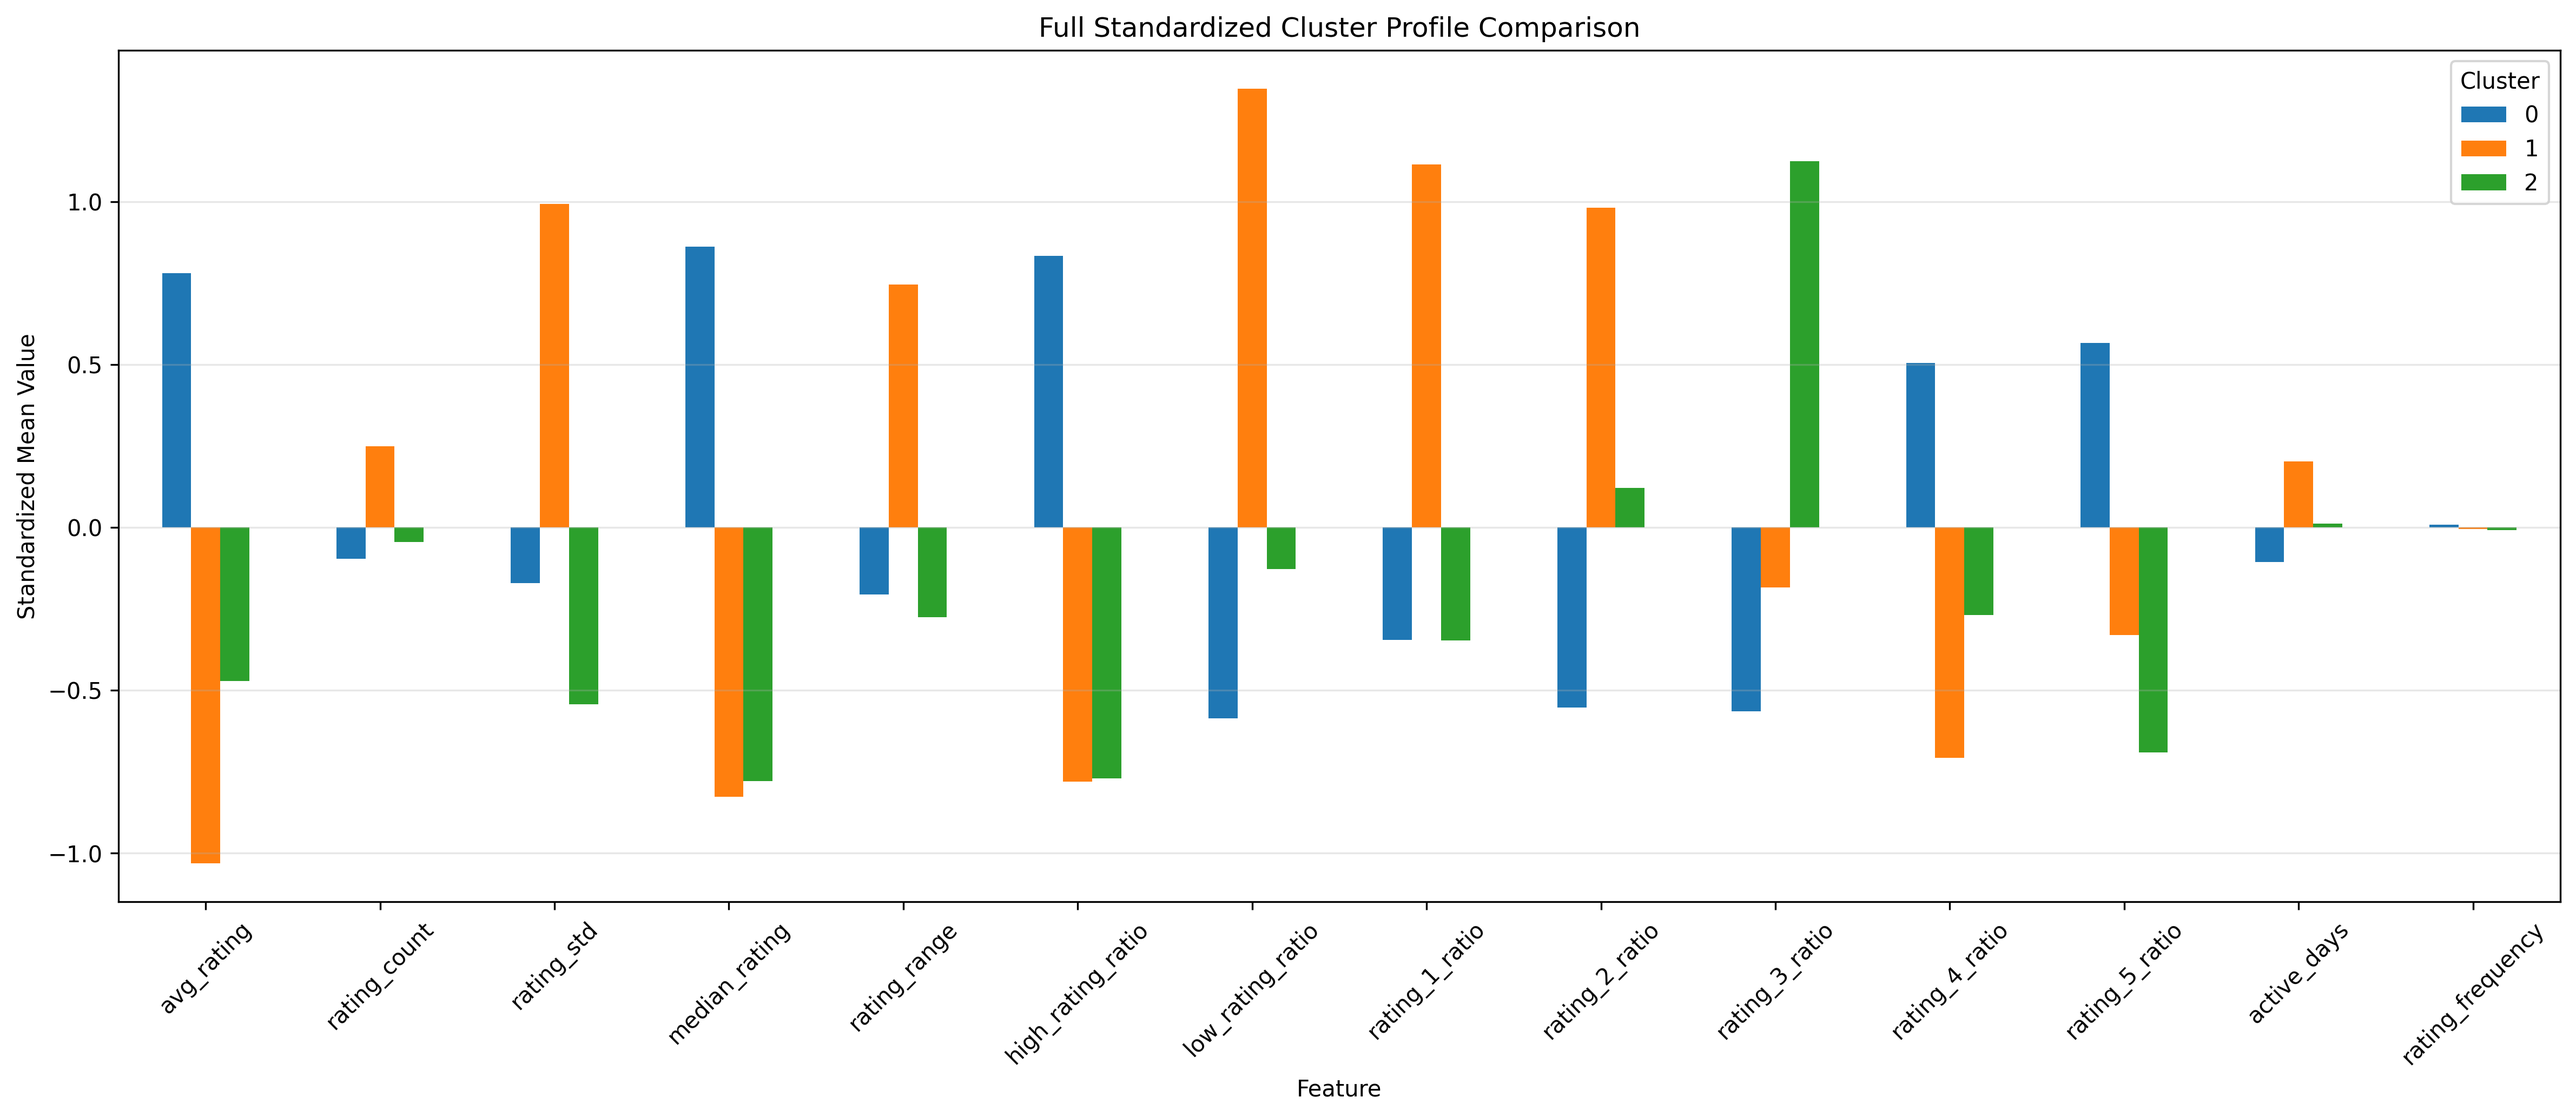
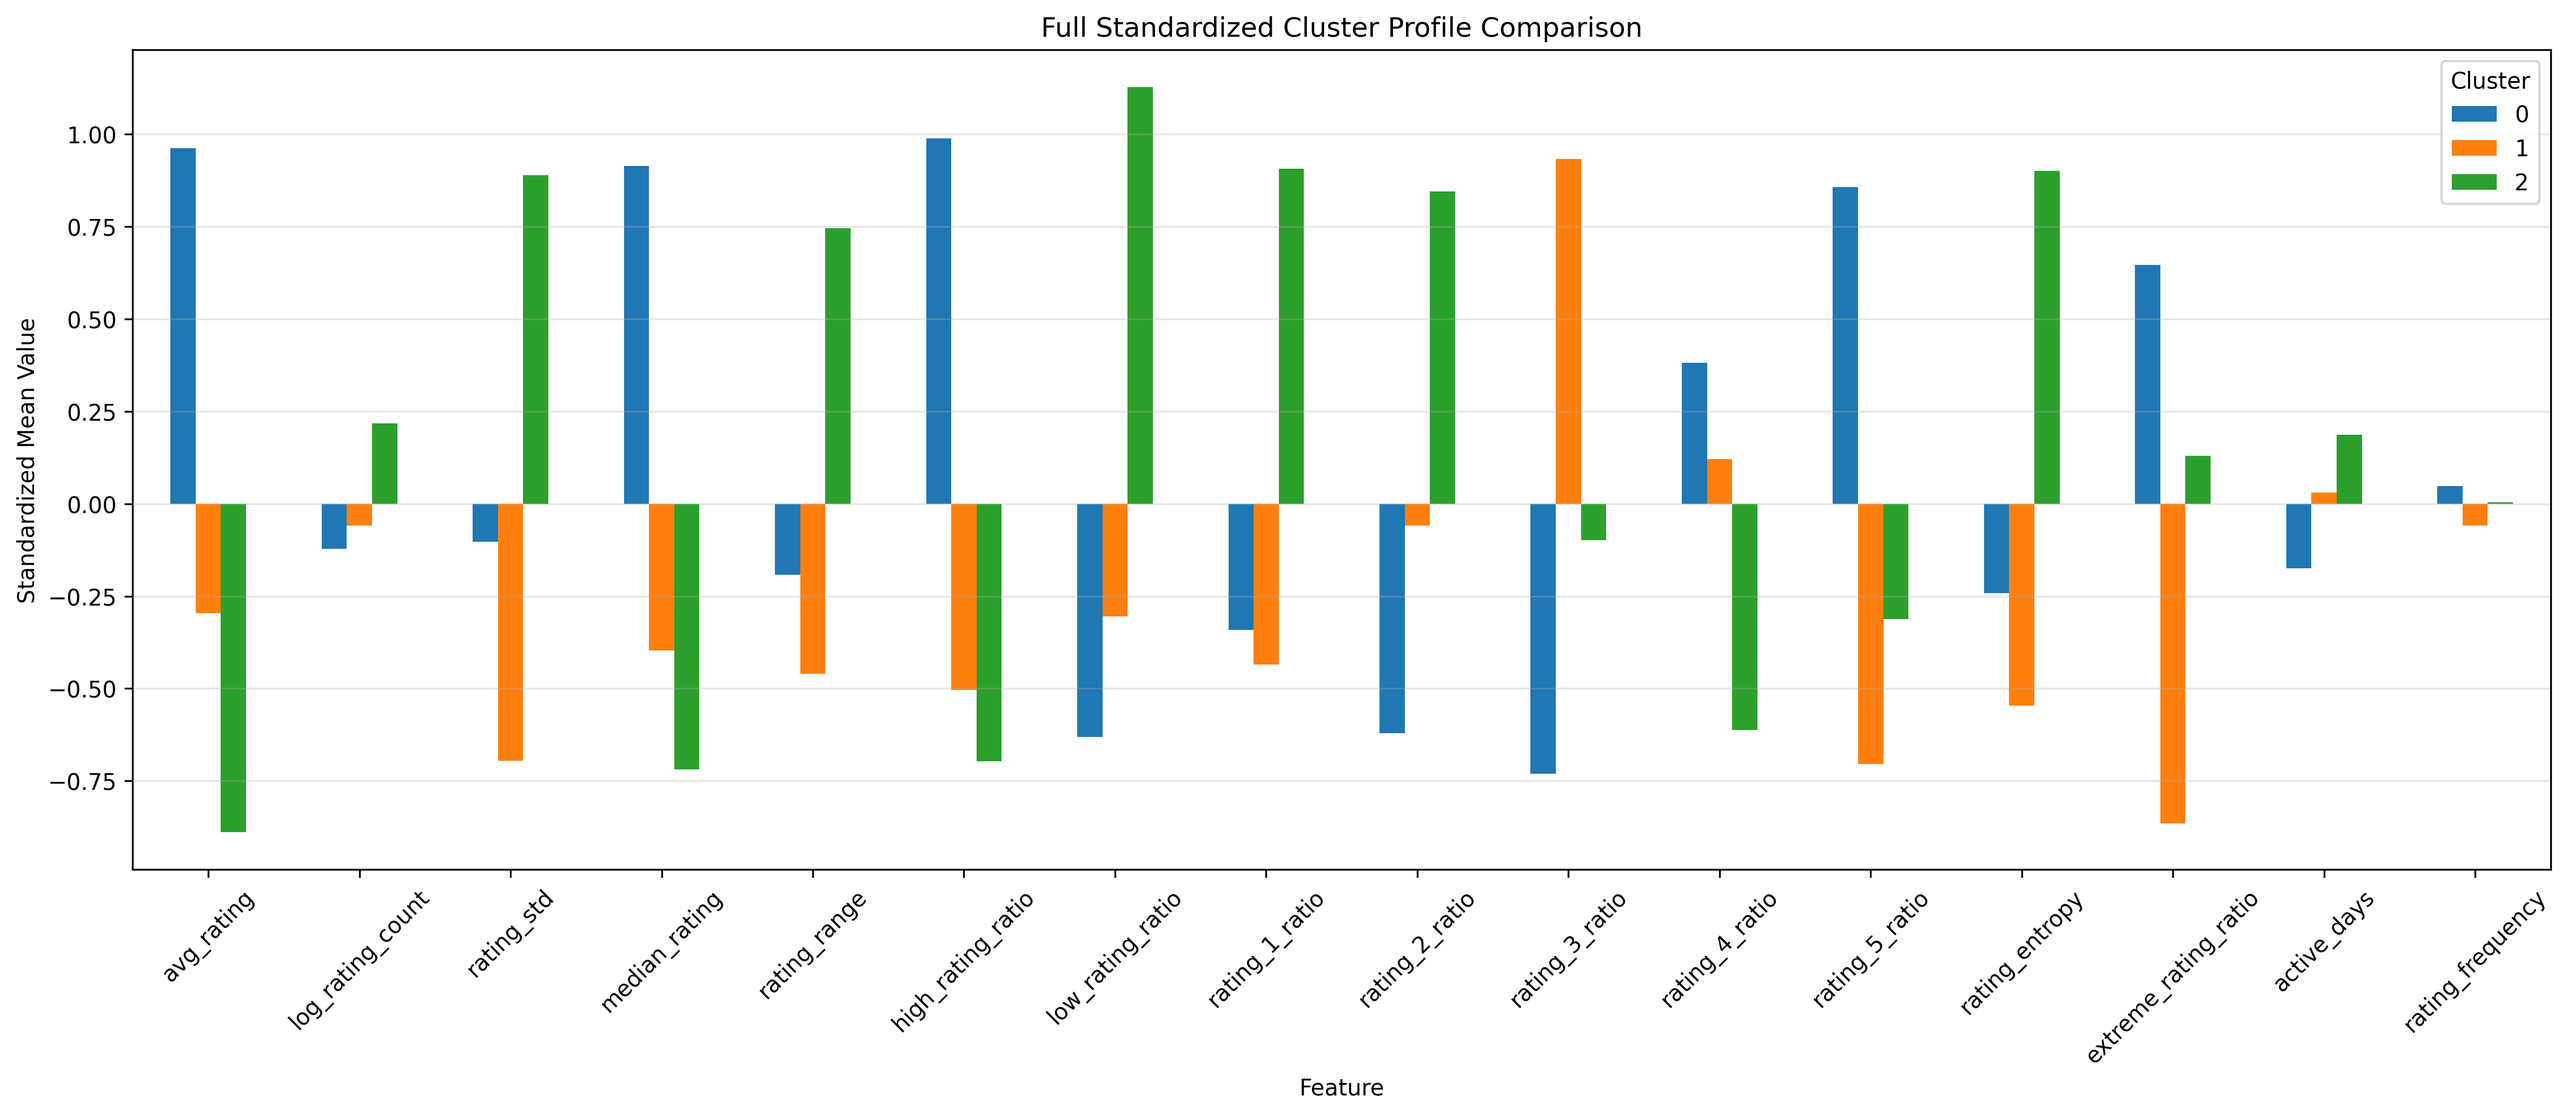
Improve Netflix clustering pipeline for V3

diff --git a/FinalProject/src/06_add_cluster_names.py b/FinalProject/src/06_add_cluster_names.py
@@ -1,0 +1,66 @@
+from pathlib import Path
+import pandas as pd
+
+
+PROJECT_ROOT = Path(__file__).resolve().parents[1]
+PROCESSED_DATA_DIR = PROJECT_ROOT / "data" / "processed"
+
+
+CLUSTER_NAME_MAP = {
+    0: "Generous Extreme Raters",
+    1: "Conservative Moderate Raters",
+    2: "Diverse Critical Raters",
+}
+
+
+CLUSTER_DESCRIPTION_MAP = {
+    0: "Users who tend to give high ratings and frequently use extreme positive ratings.",
+    1: "Users who avoid extreme scores and show more conservative, moderate rating behavior.",
+    2: "Users who rate more critically and show greater variation in rating behavior.",
+}
+
+
+def add_cluster_names_to_users():
+    input_path = PROCESSED_DATA_DIR / "clustered_users.csv"
+    output_path = PROCESSED_DATA_DIR / "clustered_users_named.csv"
+
+    df = pd.read_csv(input_path)
+
+    df["cluster_name"] = df["cluster"].map(CLUSTER_NAME_MAP)
+    df["cluster_description"] = df["cluster"].map(CLUSTER_DESCRIPTION_MAP)
+
+    df.to_csv(output_path, index=False)
+
+    print(f"Saved named clustered users to: {output_path}")
+    print(df[["user_id", "cluster", "cluster_name"]].head())
+
+
+def add_cluster_names_to_summary():
+    input_path = PROCESSED_DATA_DIR / "cluster_summary.csv"
+    output_path = PROCESSED_DATA_DIR / "cluster_summary_named.csv"
+
+    summary = pd.read_csv(input_path)
+
+    summary["cluster_name"] = summary["cluster"].map(CLUSTER_NAME_MAP)
+    summary["cluster_description"] = summary["cluster"].map(CLUSTER_DESCRIPTION_MAP)
+
+    # Move names near the front
+    cols = ["cluster", "cluster_name", "cluster_description"] + [
+        col for col in summary.columns
+        if col not in ["cluster", "cluster_name", "cluster_description"]
+    ]
+
+    summary = summary[cols]
+    summary.to_csv(output_path, index=False)
+
+    print(f"\nSaved named cluster summary to: {output_path}")
+    print(summary[["cluster", "cluster_name", "user_count"]])
+
+
+def main():
+    add_cluster_names_to_users()
+    add_cluster_names_to_summary()
+
+
+if __name__ == "__main__":
+    main()

diff --git a/FinalProject/src/02_feature_engineering.py b/FinalProject/src/02_feature_engineering.py
@@ -1,5 +1,6 @@
 from pathlib import Path
 import pandas as pd
+import numpy as np
 
 
 PROJECT_ROOT = Path(__file__).resolve().parents[1]
@@ -59,6 +60,29 @@ def build_user_features(df):
     )
     features["low_rating_ratio"] = (
         features["rating_1_ratio"] + features["rating_2_ratio"]
+    )
+
+    # Log-scaled rating count to reduce heavy-user effect
+    features["log_rating_count"] = np.log1p(features["rating_count"])
+
+    # Rating entropy: measures how diverse the user's rating distribution is
+    rating_ratio_cols = [
+        "rating_1_ratio",
+        "rating_2_ratio",
+        "rating_3_ratio",
+        "rating_4_ratio",
+        "rating_5_ratio",
+    ]
+
+    eps = 1e-12
+    features["rating_entropy"] = -(
+        features[rating_ratio_cols] *
+        np.log(features[rating_ratio_cols] + eps)
+    ).sum(axis=1)
+
+    # Extreme rating behavior: ratio of 1-star and 5-star ratings
+    features["extreme_rating_ratio"] = (
+        features["rating_1_ratio"] + features["rating_5_ratio"]
     )
 
     # Users with only one rating have NaN std

diff --git a/FinalProject/src/05_cluster_profile.py b/FinalProject/src/05_cluster_profile.py
@@ -12,11 +12,13 @@ FIGURE_DIR = PROJECT_ROOT / "reports" / "figures"
 
 SUMMARY_PROFILE_FEATURES = [
     "avg_rating",
-    "rating_count",
+    "log_rating_count",
     "rating_std",
     "high_rating_ratio",
     "low_rating_ratio",
     "rating_5_ratio",
+    "rating_entropy",
+    "extreme_rating_ratio",
     "active_days",
     "rating_frequency",
 ]
@@ -24,7 +26,7 @@ SUMMARY_PROFILE_FEATURES = [
 
 ALL_PROFILE_FEATURES = [
     "avg_rating",
-    "rating_count",
+    "log_rating_count",
     "rating_std",
     "median_rating",
     "rating_range",
@@ -35,10 +37,11 @@ ALL_PROFILE_FEATURES = [
     "rating_3_ratio",
     "rating_4_ratio",
     "rating_5_ratio",
+    "rating_entropy",
+    "extreme_rating_ratio",
     "active_days",
     "rating_frequency",
 ]
-
 
 def create_cluster_profile_plot(df, features, output_path, title, figsize=(12, 6)):
     scaler = StandardScaler()

diff --git a/FinalProject/src/03_clustering.py b/FinalProject/src/03_clustering.py
@@ -10,7 +10,7 @@ PROCESSED_DATA_DIR = PROJECT_ROOT / "data" / "processed"
 
 FEATURE_COLUMNS = [
     "avg_rating",
-    "rating_count",
+    "log_rating_count",
     "rating_std",
     "median_rating",
     "rating_range",
@@ -21,6 +21,8 @@ FEATURE_COLUMNS = [
     "rating_3_ratio",
     "rating_4_ratio",
     "rating_5_ratio",
+    "rating_entropy",
+    "extreme_rating_ratio",
     "active_days",
     "rating_frequency",
 ]

diff --git a/FinalProject/src/04_visualization.py b/FinalProject/src/04_visualization.py
@@ -12,7 +12,7 @@ FIGURE_DIR = PROJECT_ROOT / "reports" / "figures"
 
 FEATURE_COLUMNS = [
     "avg_rating",
-    "rating_count",
+    "log_rating_count",
     "rating_std",
     "median_rating",
     "rating_range",
@@ -23,6 +23,8 @@ FEATURE_COLUMNS = [
     "rating_3_ratio",
     "rating_4_ratio",
     "rating_5_ratio",
+    "rating_entropy",
+    "extreme_rating_ratio",
     "active_days",
     "rating_frequency",
 ]

diff --git a/FinalProject/reports/v3_report.md b/FinalProject/reports/v3_report.md
@@ -1,0 +1,206 @@
+# V3 Report: Netflix User Rating Behavior Clustering
+
+## 1. Objective
+
+V3 further improves the Netflix user clustering project by enhancing feature engineering and cluster interpretability.
+
+The goal remains the same:
+
+> Cluster Netflix users into meaningful behavioral groups using only rating records.
+
+Compared with V2, V3 focuses on adding more behavior-aware features that capture user rating diversity and rating intensity.
+
+---
+
+## 2. V3 Improvements
+
+V3 introduces three new user-level features:
+
+| Feature | Description |
+|---|---|
+| `log_rating_count` | Log-transformed rating count to reduce the effect of heavy users |
+| `rating_entropy` | Measures how diverse a user's rating distribution is |
+| `extreme_rating_ratio` | Ratio of extreme ratings, defined as 1-star plus 5-star ratings |
+
+These features improve the behavioral interpretation of clusters.
+
+---
+
+## 3. Dataset
+
+V3 uses the same data scale as V2:
+
+- 1,999,639 rating records
+- 342,416 users before filtering
+- 15,451 users after filtering users with fewer than 20 ratings
+
+Users with fewer than 20 ratings are removed to reduce noise from users with insufficient rating history.
+
+---
+
+## 4. V3 Feature Set
+
+The V3 clustering model uses 16 features:
+
+| Feature | Description |
+|---|---|
+| `avg_rating` | Average rating given by the user |
+| `log_rating_count` | Log-transformed number of ratings |
+| `rating_std` | Standard deviation of the user's ratings |
+| `median_rating` | Median rating given by the user |
+| `rating_range` | Difference between maximum and minimum rating |
+| `high_rating_ratio` | Ratio of ratings greater than or equal to 4 |
+| `low_rating_ratio` | Ratio of ratings less than or equal to 2 |
+| `rating_1_ratio` | Ratio of 1-star ratings |
+| `rating_2_ratio` | Ratio of 2-star ratings |
+| `rating_3_ratio` | Ratio of 3-star ratings |
+| `rating_4_ratio` | Ratio of 4-star ratings |
+| `rating_5_ratio` | Ratio of 5-star ratings |
+| `rating_entropy` | Diversity of the user's rating distribution |
+| `extreme_rating_ratio` | Ratio of 1-star and 5-star ratings |
+| `active_days` | Days between first and last rating |
+| `rating_frequency` | Average number of ratings per active day |
+
+`rating_count` is retained in the processed dataset for reporting, but `log_rating_count` is used in clustering to reduce the dominance of very active users.
+
+---
+
+## 5. K-means Results
+
+K-means clustering was tested with K values from 2 to 8.
+
+| K | Inertia | Silhouette Score |
+|---:|---:|---:|
+| 2 | 188335.42 | 0.2235 |
+| 3 | 160968.08 | 0.1901 |
+| 4 | 143917.96 | 0.1832 |
+| 5 | 130018.47 | 0.1821 |
+| 6 | 120356.81 | 0.1823 |
+| 7 | 112114.35 | 0.1902 |
+| 8 | 107144.02 | 0.1771 |
+
+Although K=2 has the highest silhouette score, K=3 is selected because it provides more interpretable behavioral segments and balanced cluster sizes.
+
+Final cluster sizes:
+
+| Cluster | User Count | Cluster Name |
+|---:|---:|---|
+| 0 | 5,809 | Generous Extreme Raters |
+| 1 | 5,034 | Conservative Moderate Raters |
+| 2 | 4,608 | Diverse Critical Raters |
+
+---
+
+## 6. Cluster Interpretation
+
+### Cluster 0: Generous Extreme Raters
+
+Cluster 0 has the highest average rating and a high extreme rating ratio. Because this group also has high positive rating behavior, the extreme rating ratio is mainly driven by frequent 5-star ratings.
+
+This cluster represents users who tend to give high ratings and use strong positive ratings to express preference.
+
+**Behavioral interpretation:**
+
+> Positive users who frequently give strong high ratings.
+
+---
+
+### Cluster 1: Conservative Moderate Raters
+
+Cluster 1 has lower rating standard deviation and the lowest extreme rating ratio. These users avoid extreme ratings and tend to stay closer to moderate scores.
+
+This cluster represents users with stable and conservative rating behavior.
+
+**Behavioral interpretation:**
+
+> Users who avoid extreme scores and prefer moderate ratings.
+
+---
+
+### Cluster 2: Diverse Critical Raters
+
+Cluster 2 has the lowest average rating, the highest rating standard deviation, and relatively higher rating diversity. It also has higher activity and longer active days.
+
+This cluster represents users who rate more critically and show stronger variation across movies.
+
+**Behavioral interpretation:**
+
+> Critical users who differentiate more strongly between movies.
+
+---
+
+## 7. V2 vs V3 Comparison
+
+| Item | V2 | V3 |
+|---|---:|---:|
+| Features used for clustering | 14 | 16 |
+| Added entropy feature | No | Yes |
+| Added extreme rating feature | No | Yes |
+| Used log-transformed rating count | No | Yes |
+| Cluster sizes | 7446 / 3658 / 4347 | 5809 / 5034 / 4608 |
+| Cluster balance | Good | Better |
+| Interpretation depth | Good | Better |
+
+V3 slightly reduces the silhouette score for K=3 compared with V2, but it produces more balanced clusters and clearer behavioral interpretation.
+
+---
+
+## 8. Outputs
+
+V3 generates the following major outputs:
+
+### Data outputs
+
+- `cluster_summary.csv`
+- `cluster_summary_named.csv`
+
+### Figure outputs
+
+- `elbow_plot.png`
+- `silhouette_plot.png`
+- `pca_clusters.png`
+- `cluster_profile_standardized.png`
+- `cluster_profile_all_features.png`
+
+### Reports
+
+- `v1_report.md`
+- `v2_report.md`
+- `v3_report.md`
+
+---
+
+## 9. Limitations
+
+1. The project still uses only a sample of the Netflix Prize dataset.
+2. Movie metadata such as genre, title, or release year is not included in clustering.
+3. K-means assumes spherical clusters and may not capture more complex user behavior.
+4. Silhouette score suggests K=2, while K=3 is selected for interpretability.
+5. Rating behavior alone may not fully represent viewing preferences.
+
+---
+
+## 10. Future Work
+
+Future improvements may include:
+
+1. Using more Netflix Prize data files.
+2. Incorporating movie metadata.
+3. Comparing K-means with Gaussian Mixture Model.
+4. Trying dimensionality reduction methods such as UMAP or t-SNE.
+5. Connecting clusters to recommendation performance.
+6. Studying how different user clusters may experience filter bubbles.
+
+---
+
+## 11. Conclusion
+
+V3 improves the project by adding more behavior-aware features, including rating entropy and extreme rating ratio.
+
+The final model identifies three meaningful user behavior groups:
+
+1. **Generous Extreme Raters**
+2. **Conservative Moderate Raters**
+3. **Diverse Critical Raters**
+
+These clusters suggest that Netflix users can be meaningfully segmented based on rating behavior alone, even without movie metadata or demographic information.
